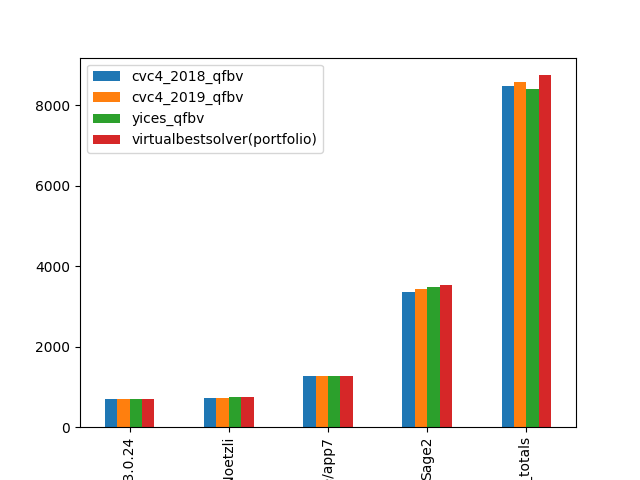
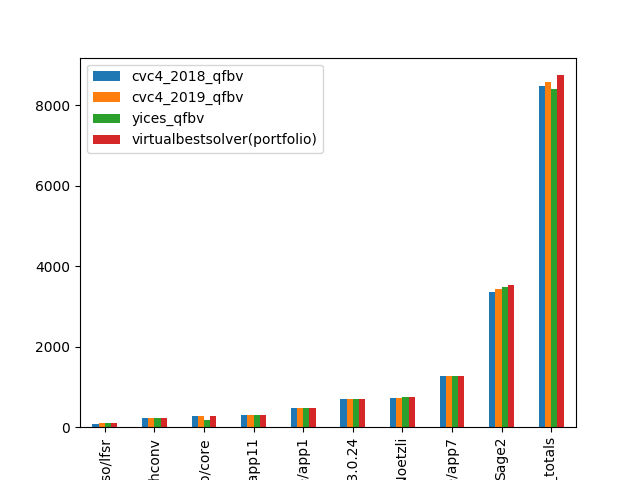
.

Changed region(s): [[0.1562, 0.1562, 0.9062, 1.0]]

diff --git a/PI-Aug-2019-stats/scripts/gen_plots.py b/PI-Aug-2019-stats/scripts/gen_plots.py
@@ -20,7 +20,7 @@ for csv_file in os.listdir(cluster_csv_dir):
     data = ps.read_csv(cluster_csv_dir + "/" + csv_file)
     data = data.applymap(to_int)
     data.sort_values(data.columns[-1],inplace=True)
-    data = data.tail()
+    data = data.tail(10)
     print(data)
     p = data.plot(kind='bar', x="DIRECTORY")
     f = p.get_figure()
